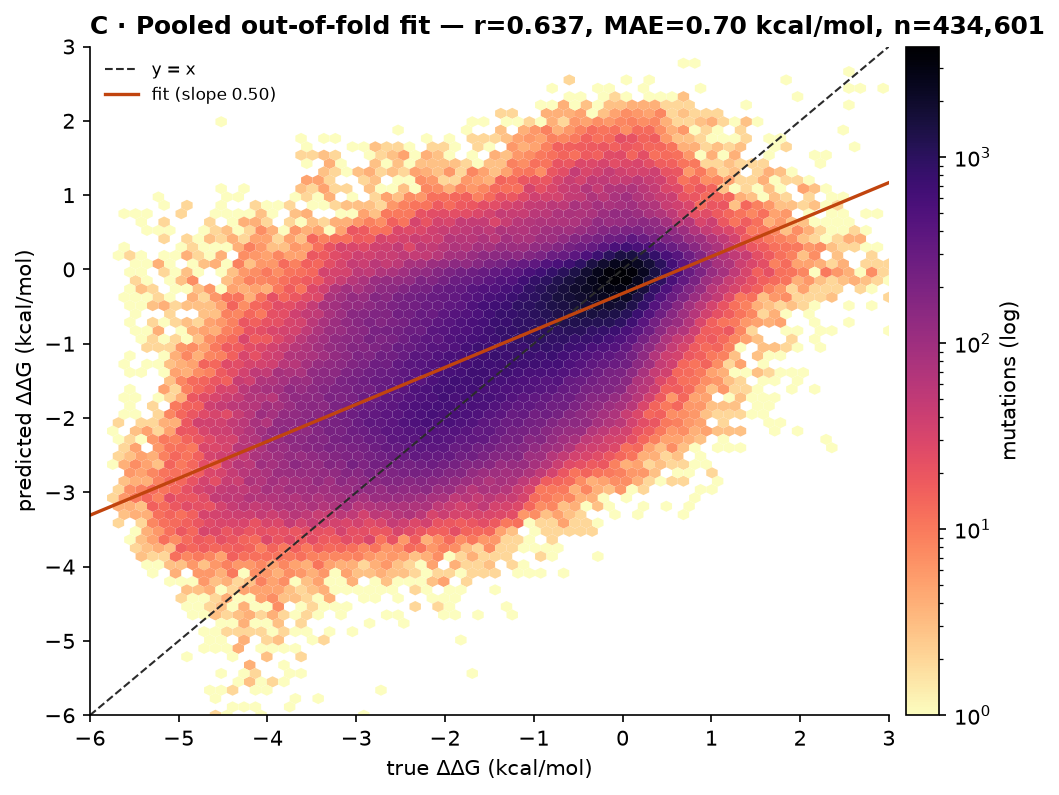
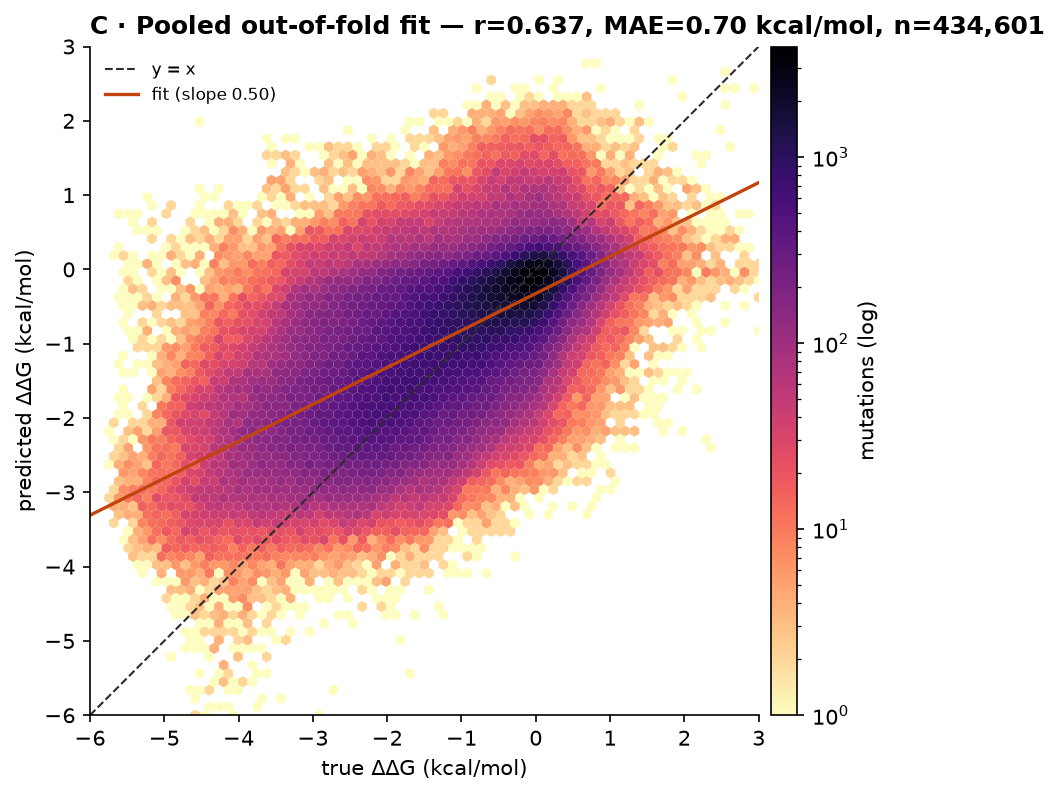
docs: result graph scale unified

diff --git a/backend/scripts/bench/ssym.py b/backend/scripts/bench/ssym.py
@@ -63,6 +63,16 @@ logger = logging.getLogger("bench.ssym")
 
 _BLUE, _ORANGE, _RED, _GREY = "#2f6f9f", "#c26a12", "#c0392f", "#8fa0ad"
 
+
+def _square_axes(ax, lo: float, hi: float, pad: float = 0.04) -> None:
+    """Give x and y the same data scale so one unit has the same length on both."""
+    span = float(hi) - float(lo)
+    margin = pad * span if span > 0 else 1.0
+    ax.set_xlim(lo - margin, hi + margin)
+    ax.set_ylim(lo - margin, hi + margin)
+    ax.set_aspect("equal", adjustable="box")
+
+
 SSYM_CSV_URL = "https://protddg-bench.github.io/data/ssym.csv"
 RCSB_URL = "https://files.rcsb.org/download/{pdb}.pdb"
 _MUT_RE = re.compile(r"^([A-Z])(\d+)([A-Z])$")
@@ -199,6 +209,7 @@ def _plot(report, ddg_dir, ddg_inv, true_dir, proteins, plots_dir: Path) -> None
     anti = report["results"]["model_ddg"]["antisymmetry"]
     span = [float(min(ddg_dir.min(), ddg_inv.min())), float(max(ddg_dir.max(), ddg_inv.max()))]
     ax.plot(span, [-s for s in span], "k--", lw=0.9, label="perfect antisymmetry")
+    _square_axes(ax, *span)
     ax.set_xlabel("predicted ΔΔG (direct)"); ax.set_ylabel("predicted ΔΔG (reverse)")
     ax.set_title(f"Antisymmetry on Ssym\nr={anti['r_dir_inv']:.3f}, bias δ={anti['bias_mean_sum']:+.3f}")
     ax.legend(fontsize=8); ax.grid(alpha=0.3)
@@ -221,6 +232,10 @@ def _plot(report, ddg_dir, ddg_inv, true_dir, proteins, plots_dir: Path) -> None
     ax = axes[2]
     ax.scatter(ddg_dir, true_dir, s=14, alpha=0.55, color=_BLUE)
     m = report["results"]["model_ddg"]["direct"]
+    lo = float(min(ddg_dir.min(), true_dir.min()))
+    hi = float(max(ddg_dir.max(), true_dir.max()))
+    ax.plot([lo, hi], [lo, hi], "k--", lw=0.9)
+    _square_axes(ax, lo, hi)
     ax.set_xlabel("predicted ΔΔG"); ax.set_ylabel("experimental ΔΔG")
     ax.set_title(f"model_ddg on Ssym\nρ={m['spearman_rho']:.3f}  r={m['pearson_r']:.3f}  n={m['n']}")
     ax.grid(alpha=0.3)

diff --git a/backend/scripts/bench/run_s669.py b/backend/scripts/bench/run_s669.py
@@ -43,6 +43,15 @@ logger = logging.getLogger("bench.s669")
 _BLUE, _ORANGE, _GREEN, _RED, _GREY = "#2f6f9f", "#c26a12", "#1d874b", "#c0392f", "#8fa0ad"
 
 
+def _square_axes(ax, lo: float, hi: float, pad: float = 0.04) -> None:
+    """Give x and y the same data scale so one unit has the same length on both."""
+    span = float(hi) - float(lo)
+    margin = pad * span if span > 0 else 1.0
+    ax.set_xlim(lo - margin, hi + margin)
+    ax.set_ylim(lo - margin, hi + margin)
+    ax.set_aspect("equal", adjustable="box")
+
+
 def _git_sha() -> str:
     try:
         return subprocess.run(["git", "rev-parse", "--short", "HEAD"],
@@ -215,6 +224,7 @@ def _plots(report, variants, true_dir, true_inv, ddg_dir, ddg_inv, zs_dir, prote
                label=f">400 aa (n={(~in_regime).sum()})")
     lims = [min(ddg_dir.min(), true_dir.min()) - 0.5, max(ddg_dir.max(), true_dir.max()) + 0.5]
     ax.plot(lims, lims, "k--", lw=0.8)
+    _square_axes(ax, *lims, pad=0)
     ax.set_xlabel("model_ddg predicted ΔΔG"); ax.set_ylabel("experimental ΔΔG")
     ax.set_title(f"model_ddg on S669 (ρ={rho('model_ddg'):.3f})")
     ax.legend(fontsize=8); ax.grid(alpha=0.3)
@@ -224,6 +234,7 @@ def _plots(report, variants, true_dir, true_inv, ddg_dir, ddg_inv, zs_dir, prote
     anti = results["model_ddg"]["antisymmetry"]
     span = [min(ddg_dir.min(), ddg_inv.min()), max(ddg_dir.max(), ddg_inv.max())]
     ax.plot(span, [-x for x in span], "k--", lw=0.8, label="perfect antisymmetry")
+    _square_axes(ax, *span)
     ax.set_xlabel("predicted ΔΔG (direct)"); ax.set_ylabel("predicted ΔΔG (inverse)")
     ax.set_title(f"Antisymmetry: r={anti['r_dir_inv']:.3f}, bias δ={anti['bias_mean_sum']:.3f}")
     ax.legend(fontsize=8); ax.grid(alpha=0.3)

diff --git a/backend/app/training/automl_tm.py b/backend/app/training/automl_tm.py
@@ -230,6 +230,15 @@ def run_automl_tm(
     return report
 
 
+def _square_axes(ax, lo: float, hi: float, pad: float = 0.04) -> None:
+    """Give x and y the same data scale so one unit has the same length on both."""
+    span = float(hi) - float(lo)
+    margin = pad * span if span > 0 else 1.0
+    ax.set_xlim(lo - margin, hi + margin)
+    ax.set_ylim(lo - margin, hi + margin)
+    ax.set_aspect("equal", adjustable="box")
+
+
 def _plot_comparison(base_m, apt_m, yte, base_pred, apt_pred, winner, out_dir: Path) -> None:
     fig, axes = plt.subplots(1, 3, figsize=(15, 4.5))
     # MAE / Pearson bars
@@ -248,6 +257,7 @@ def _plot_comparison(base_m, apt_m, yte, base_pred, apt_pred, winner, out_dir: P
     lo, hi = min(yte.min(), apt_pred.min()), max(yte.max(), apt_pred.max())
     axes[2].scatter(yte, apt_pred, alpha=0.3, s=10, edgecolors="none", c="#f59e0b")
     axes[2].plot([lo, hi], [lo, hi], "r--", lw=1)
+    _square_axes(axes[2], lo, hi)
     axes[2].set_xlabel("Actual Tm (°C)"); axes[2].set_ylabel("Predicted Tm (°C)")
     axes[2].set_title(f"AutoML ({winner}) — r={apt_m['pearson']:.3f}, MAE={apt_m['mae']:.2f}")
     fig.suptitle("Absolute Tm: baseline vs AutoML", y=1.02, fontsize=13)

diff --git a/backend/scripts/bench/tm_diagnosis.py b/backend/scripts/bench/tm_diagnosis.py
@@ -48,6 +48,15 @@ logger = logging.getLogger("bench.tm")
 _BLUE, _ORANGE, _GREEN, _RED, _GREY = "#2f6f9f", "#c26a12", "#1d874b", "#c0392f", "#8fa0ad"
 
 
+def _square_axes(ax, lo: float, hi: float, pad: float = 0.04) -> None:
+    """Give x and y the same data scale so one unit has the same length on both."""
+    span = float(hi) - float(lo)
+    margin = pad * span if span > 0 else 1.0
+    ax.set_xlim(lo - margin, hi + margin)
+    ax.set_ylim(lo - margin, hi + margin)
+    ax.set_aspect("equal", adjustable="box")
+
+
 def _corr(pred, true) -> tuple[float, float]:
     from scipy.stats import pearsonr, spearmanr
 
@@ -217,6 +226,7 @@ def _plot(report, y, pred, plots_dir: Path) -> None:
     ax.scatter(pred, y, s=8, alpha=0.4, color=_BLUE)
     lims = [min(pred.min(), y.min()) - 2, max(pred.max(), y.max()) + 2]
     ax.plot(lims, lims, "k--", lw=0.8)
+    _square_axes(ax, *lims, pad=0)
     g = report["global"]
     ax.set_xlabel("predicted Tm (°C)"); ax.set_ylabel("experimental Tm (°C)")
     ax.set_title(f"model_tm on Meltome test\nr={g['pearson_r']:.3f}  ρ={g['spearman_rho']:.3f}"

diff --git a/backend/scripts/plot_grouped_cv.py b/backend/scripts/plot_grouped_cv.py
@@ -33,6 +33,7 @@ matplotlib.use("Agg")
 
 import matplotlib.pyplot as plt
 import numpy as np
+from mpl_toolkits.axes_grid1 import make_axes_locatable
 from scipy.stats import pearsonr, spearmanr
 
 MIN_MUTATIONS_PER_PROTEIN = 20
@@ -162,7 +163,11 @@ def panel_scatter(ax, pred: np.ndarray, true: np.ndarray) -> None:
         loc="left", fontweight="bold",
     )
     ax.legend(frameon=False, fontsize=8, loc="upper left")
-    plt.colorbar(hb, ax=ax, label="mutations (log)", fraction=0.046, pad=0.02)
+    # Divider keeps the colorbar from stretching the axes, so one kcal/mol
+    # is the same length on x and y and y = x stays at 45°.
+    cax = make_axes_locatable(ax).append_axes("right", size="4%", pad=0.08)
+    ax.figure.colorbar(hb, cax=cax, label="mutations (log)")
+    ax.set_aspect("equal", adjustable="box")
 
 
 def panel_precision_spread(ax, s: dict) -> None:
